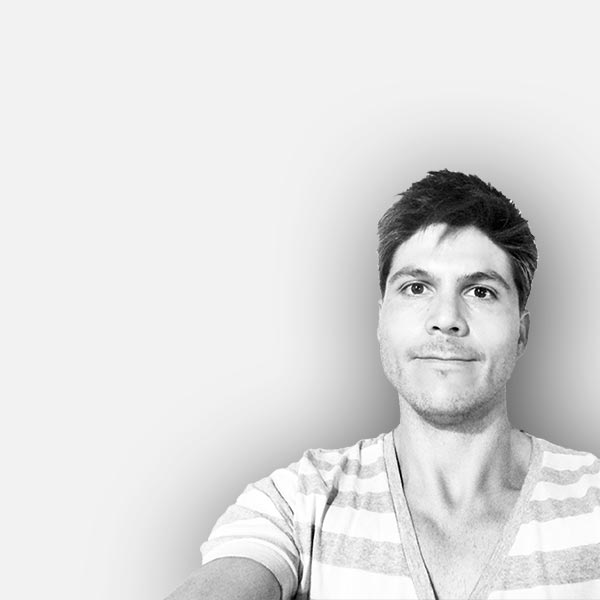
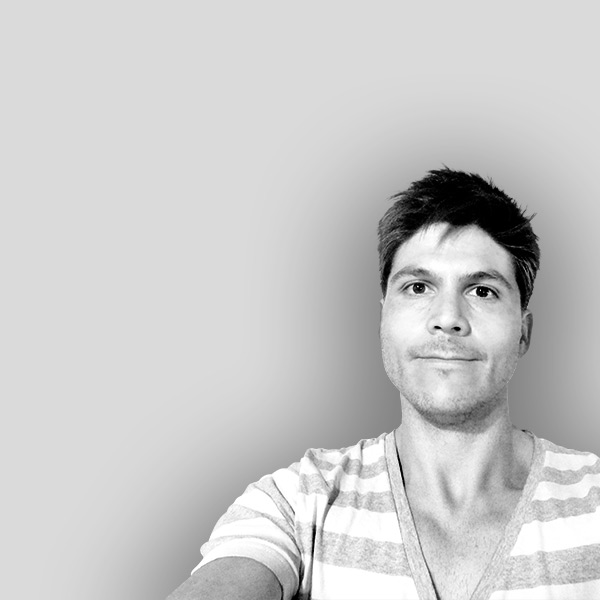
ajustando media queryes y background who_am_i

diff --git a/css/styles.css b/css/styles.css
@@ -301,79 +301,6 @@ header{
 	display: flex;
 }
 
-/*
-.construction{
-	display:;
-	flex-direction: column;
-	margin: auto;
-}
-.circulosss{	
-	margin: auto;
-	display: flex;
-	flex-direction: row;
-	justify-content: space-between;
-}
-.construction>p{
-	text-align: center;
-	font-size:1em;
-	color:#a1cfdf;
-}
-
-[class |= circ]{
-	width:10px;
-	height:10px;
-	border-radius:100%;
-	margin:5px;
-	background-color: #a1cfdf;
-	opacity: 0.2;
-}
-.circ-01{animation:circ01 1s infinite;}
-@keyframes circ01{
-	0%{}
-	10%{opacity: 1;}
-	25%{}
-	50%{}
-	75%{}
-	100%{}
-}
-
-.circ-02{animation:circ02 1s infinite;}
-@keyframes circ02{
-	0%{}
-	25%{opacity: 1;}
-	50%{}
-	75%{}
-	100%{}
-}
-
-.circ-03{animation:circ03 1s infinite;}
-@keyframes circ03{
-	0%{}
-	25%{}
-	50%{opacity: 1;}
-	75%{}
-	100%{}
-}
-
-.circ-04{animation:circ04 1s infinite;}
-@keyframes circ04{
-	0%{}
-	25%{}
-	50%{}
-	75%{opacity: 1;}
-	100%{}
-}
-
-.circ-05{animation:circ05 1s infinite;}
-@keyframes circ05{
-	0%{}
-	25%{}
-	50%{}
-	75%{}
-	90%{opacity: 1;}
-	100%{}
-}
-*/
 .habilidades{
 	margin-top: 50px;
 	display: flex;
@@ -495,21 +422,6 @@ header{
 	opacity: 1;
 	animation: cortina 0.3s linear;	
 }
-/*
-@-webkit-keyframes cortina{
-	0%{opacity: 0;
-		height: 0%;
-		border-bottom: solid 2px #FFF;
-	}
-	25%{}
-	50%{}
-	75%{}background
-	99%{border-bottom: solid 15px #FFF;}
-	100%{opacity: 0.93;
-		height: 100%;
-	}
-}*/
-
 @-webkit-keyframes cortina{
 	from{opacity: 0;
 		: #95d0da;}
@@ -905,10 +817,12 @@ header{
 	background: url(../img/dantest-cel.jpg) no-repeat;
 	background-size: cover;
 	background-position: center;
+	height: auto;
 }
 .who_text{
 	text-shadow: 0px 0px 7px rgba(255,255,255,0.9);
 }
+.who_text p{font-weight: 600;}
 .container{
 	width:90%;
 	display: flex;
@@ -916,14 +830,25 @@ header{
 	flex-wrap: wrap;
 	padding: 30px 0px 0px;
 }
-
+.full-text{
+	font-size: 0.9em;
+}
+.full-text:last-child{
+	margin-bottom: 30px;
+}
+#who_full {
+	padding-bottom: 25px;
+	height: auto;
+}
+#who_full > .container > .close{
+	align-self: baseline;
+	bottom:-17px;
+}
 .who_text, .portfolio_text, .ask_me_text{
 	width: 100%;
 }
-
-
 .who_text>a{
-	margin:90px auto;
+	margin:250px auto 0px;
 }
 
 #skills{
@@ -932,20 +857,15 @@ header{
 #start, #who_am_i, #portfolio, #ask_me{
 	max-height:auto;
 }
-
-
 #portfolio>.container{
 display: flex;
 flex-direction: column;
 padding: 30px 0px 0px;
 }
-
-
 #works{
 	width: 100%;
 	height: auto;
 }
-
 .row{
 	width: 100%;
 	height:300px;
@@ -964,6 +884,7 @@ padding: 30px 0px 0px;
 	width: 90%;
 	padding:0px;
 }
+#portfolio{}
 [class |= job]{
 	width: 100%;
 	margin: auto;
@@ -977,9 +898,12 @@ padding: 30px 0px 0px;
 	border-top:solid 1px silver;
 	width: 100%;
 }
-[class |=jobtext]>h2{font-size: 1.1em;}
-.bajada{display: none;}
-
+[class |=jobtext]>h2{
+	font-size: 1.1em;
+}
+.bajada{
+	display: none;
+}
 .port-2, .port-3{
 	display: none;
 }
@@ -1003,14 +927,15 @@ padding: 30px 0px 0px;
 iframe{
 	width: 100%;
 	height: 250px;
-
 }
 
 p{
-	font-size: 1em;
+	font-size: 0.9em;
+	font-weight: 200;
 }
-
-
+h1+p{
+	margin-top: 30px;
+}
 #form{
 	width:100%;
 	margin-top: 10px;

diff --git a/index.html b/index.html
@@ -48,8 +48,6 @@
 	</div>
 </div>
 
-
-
 <div id="who_am_i">
 	<div id="who_full">
 		<div class="container">
@@ -59,18 +57,17 @@
 			</p>
 			<br>
 			<p class="full-text">
-				Me recibí de la carrera de Diseño Gráfico en la <strong><em>Universidad Argentina John F. Kennedy</em></strong>, mi vida institucional y académica ha girado siempre en torno al <em>arte</em>, al <em>diseño</em> y a la <em>comunicación</em>.
+				Me recibí de la carrera de Diseño Gráfico en la <strong><em>Universidad Argentina John F. Kennedy</em></strong>; mi vida institucional y académica ha girado siempre en torno al <em>arte</em>, al <em>diseño</em> y a la <em>comunicación</em>.
 			</p>
 			<br>
 			<p class="full-text">
 				A lo largo de los años he tenido una relación de amor y odio con mi profesión ya que más de una vez fue menospreciada, y he trabajado de sobremanera para solamente poder ganar unos pocos pesos.
 			</p>
 			<p class="full-text">
-				Gracias a la perseverancia, al aprendizaje constante, al poder trabajar en estudios de diseños e ir arendiendo otras dinámicas, otras áreas, como así tambien ir pudiendo crecer en el ambito personal de esta carrera, hizo que el amor hacia mi profesión, el diseño, fue creciendo nuevamente haciendolo el todo.
+				Gracias a la perseverancia, al aprendizaje constante, al poder trabajar en estudios de diseños e ir aprendiendo otras dinámicas de trabajo, otras áreas, como así tambien ir pudiendo crecer en el ambito profesional de esta carrera, hizo que el amor hacia mi profesión, el diseño, fuera creciendo nuevamente haciendolo el todo.
 			</p>
 
 			<a href="#who_am_i" class="close" style="margin-top: 50px;">X</a>
-			
 		</div>
 	</div>
 
